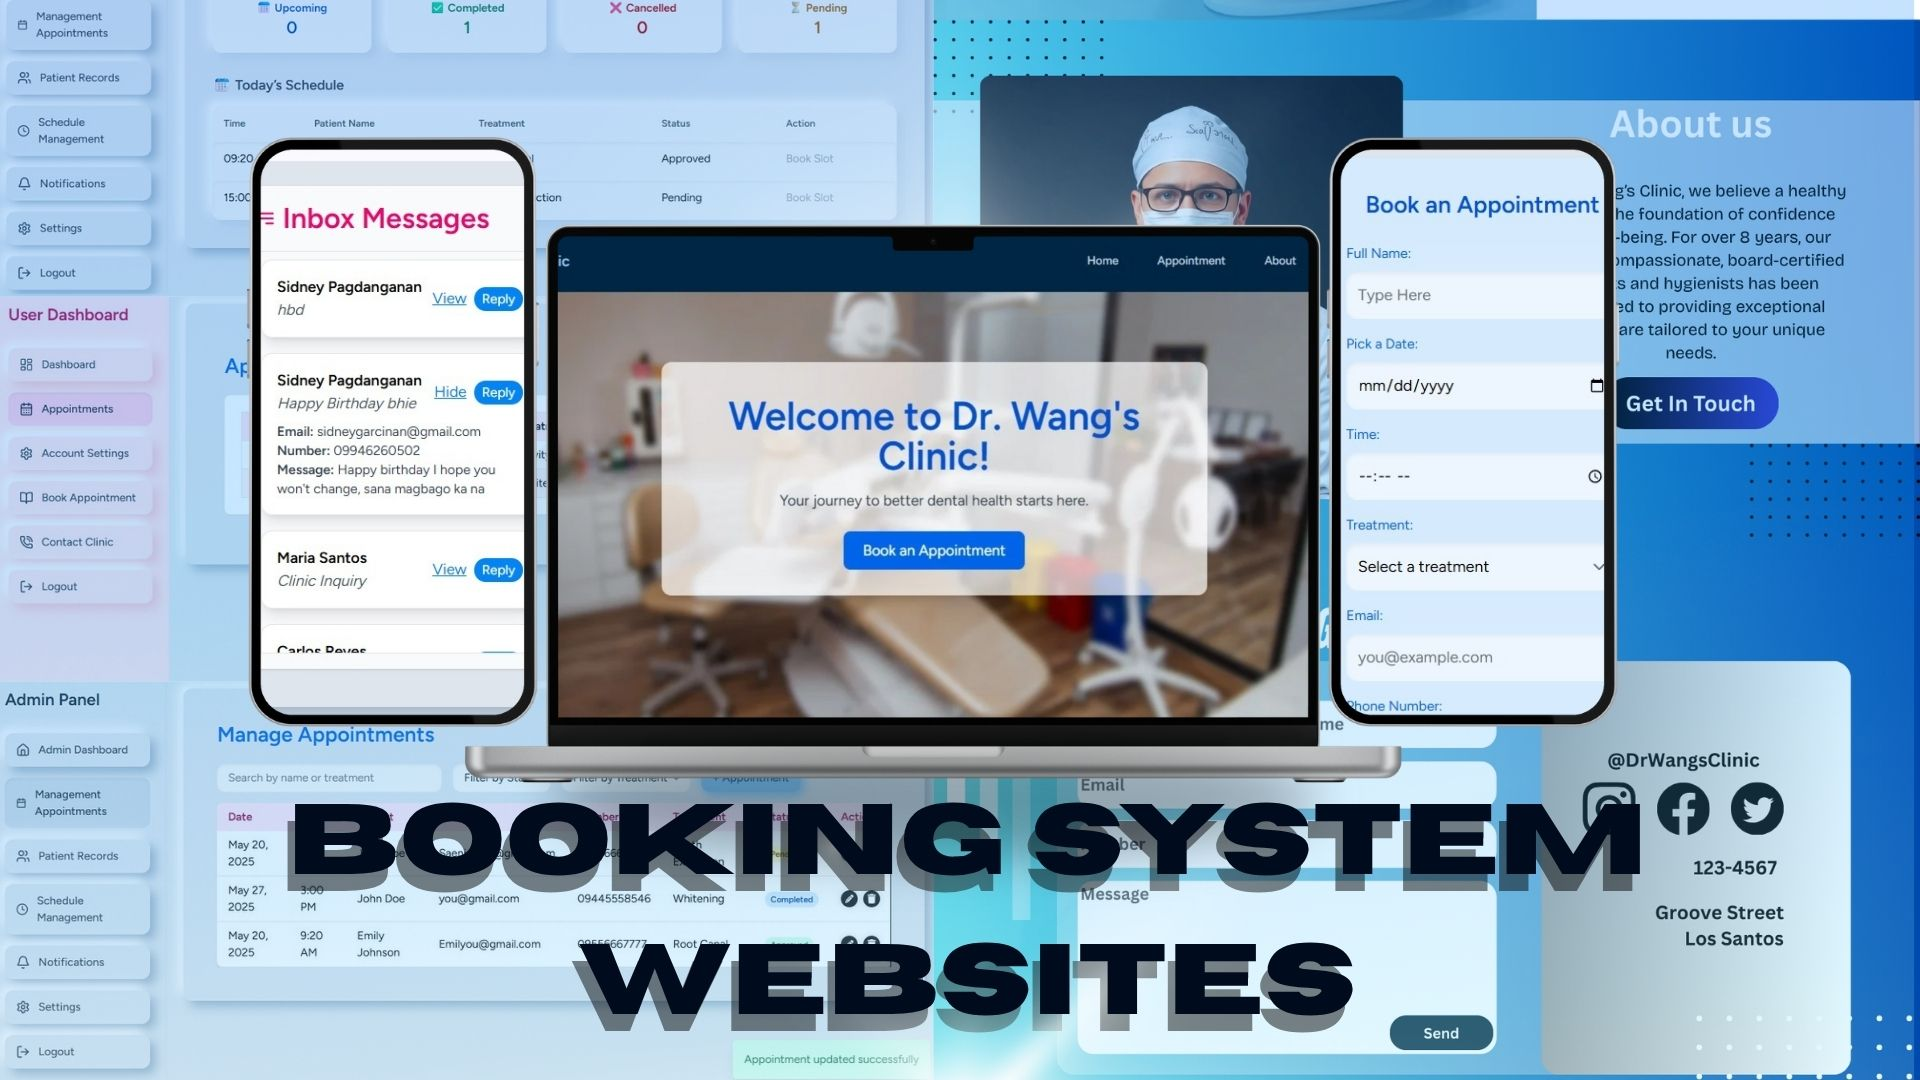
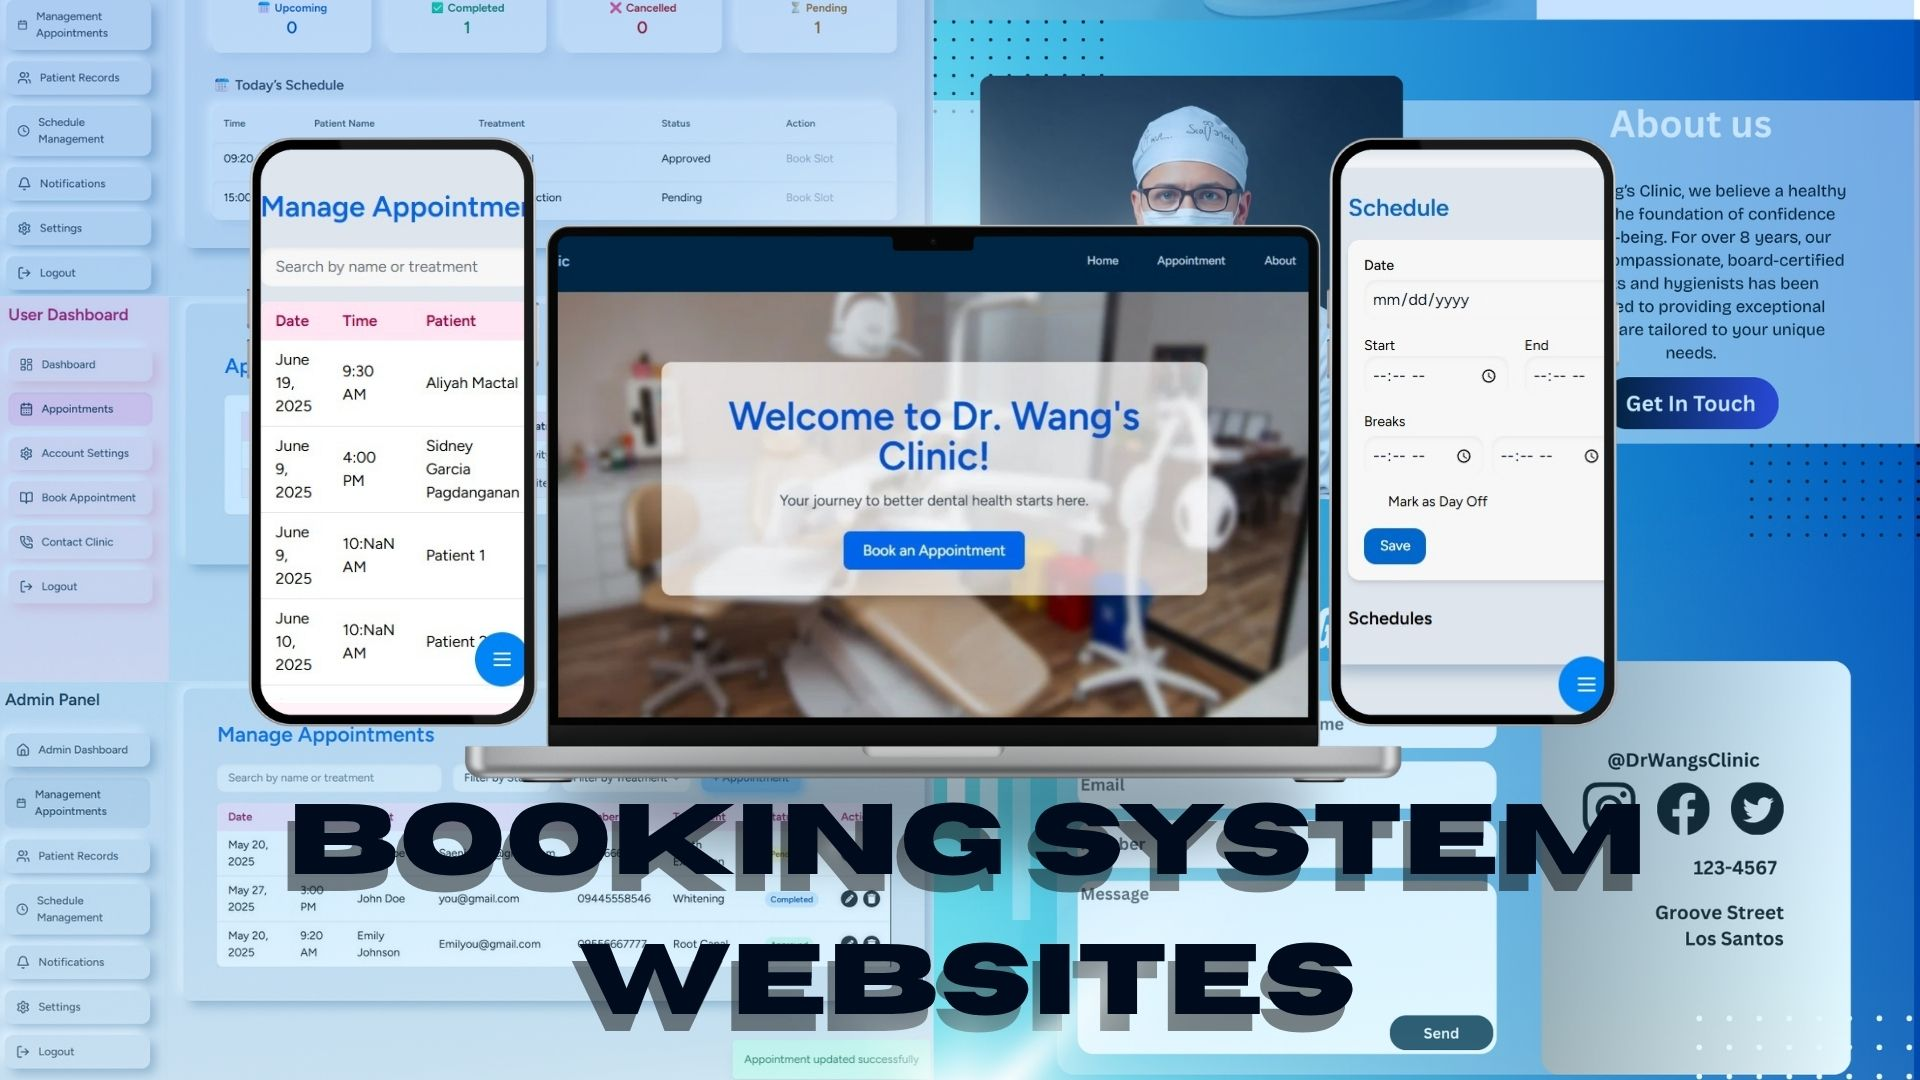
DevOps update + Project 3

diff --git a/script.js b/script.js
@@ -98,6 +98,8 @@ const skillIcons = {
   "MVVM": `<i class="fas fa-diagram-project" title="MVVM"></i>`,
   "MVC": `<i class="fas fa-sitemap" title="MVC"></i>`,
   "Agile Development": `<i class="fas fa-sync-alt" title="Agile Development"></i>`,
+  "Docker": `<i class="fab fa-docker" title="Docker"></i>`,
+
 
     // Custom SVG icons for missing ones
 "WPF": `
